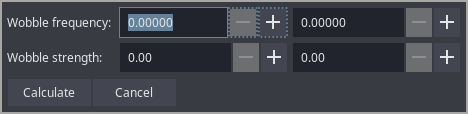
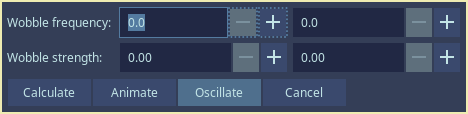
[README.md,Wobble-animate.png,Wobble-gui.png,Wobble-oscillate.png] Update info of wobble script

diff --git a/README.md b/README.md
@@ -42,21 +42,37 @@ https://user-images.githubusercontent.com/65547311/164889225-2d8a6ccf-7798-4810-
 
 **_Available in Dependency Control_**
 
-Wobble is a remake of a very old script that distorts the text with the parameters you choose. The old script however was very difficult to use. It neither recognized the text already present in the line nor the tags used nor did it output the result in a usable format. So I decided to remake it.
+Wobble is a remake of a very old script that distorts the text with the parameters you choose. The old script however was very difficult to use. It neither recognized the text already present in the line nor the tags used nor did it output the result in a usable format. So I decided to remake it and add other features.
 
 ![wobble](./assets/wobble-gui.png)
 
-When you open the script, you will be presented with the gui as shown above. Imagine that when you use this script, it distorts the text along a wave horizontally or vertically or both. The parameters control the nature of the wave thus controls how the text is distorted. Frequency is the number of waves (crest and trough) you want in the text. Use very small value for useful output. Strength is the number of pixels that the text will be distorted to. With trial and error, you can create many interesting distortions.
+When you open the script, you will be presented with the GUI as shown above. Imagine that when you use this script, it distorts the text along a wave horizontally or vertically or both. The parameters control the nature of the wave thus controls how the text is distorted. Frequency is the number of waves (crest and trough) you want in the text in percentage. You'll most likely use 20-40% for optimum results. Strength is the number of pixels that the text will be distorted to. With trial and error, you can create many interesting distortions.
 
-As you can see below, the top is the original font and everything below it is distorted using this script. I use it when the sign is distorted or I need a irregular font that I cannot find.
+As you can see below, the top is the original font and everything below it is distorted using this script. I use it when the sign is distorted or I need an irregular font that I cannot find.
 
 ![wobble2](./assets/wobble-example.png)
+
+![image](./assets/wobble-animate.png)
+
+If you want to animate the distortion, first split the line to frames. You can use something like [petzku's script](https://github.com/petzku/Aegisub-Scripts/blob/master/macros/petzku.SplitTimer.moon) to do so. You can control the speed of animation by controlling the number of frames each line has. The more frames per line, the slower the animation. After splitting the line to frames, you need to put the starting value and ending value. I recommend you figure this out beforehand by using main GUI. After you put the starting and ending value for all the required elements, click on `Animate` and the script will handle the rest.
+
+<details>
+  <summary>Click here to see example animations</summary>
+</details>
+
+![image](./assets/wobble-oscillate.png)
+
+Again, split the lines into frames first. Then, you need to put the middle value. After that you need to put the factor by which the middle value will change. If your middle value if x and factor is y, the minimum value is x - y while the maximum value is x + y. The values will oscillate from minimum value to maximum value. The steps box is the rate by how much the value changes per line.
+
+<details>
+  <summary>Click here to see example oscillation</summary>
+</details>
 
 ## svg2ass
 
 **_Available in Dependency Control_**
 
-The script svg2ass is a wrapper for a program [svg2ass](https://github.com/irrwahn/svg2ass) which allows you to select a svg file from Aegisub itself and convert it to shape, clip or iclip. It works in both windows as well as unix operating system. I generally create svg files using GIMP(can perform complex selections and convert those selections to svg in a matter of seconds) or Inkscape and use svg2ass to convert them to subtitle lines. If you cannot/ do not want to compile svg2ass, then there is also a [website](https://qgustavor.github.io/svg2ass-gui/) where you can upload the svg file to obtain the output.
+The script svg2ass is a wrapper for a program [svg2ass](https://github.com/irrwahn/svg2ass) which allows you to select a svg file from Aegisub itself and convert it to shape, clip or iclip. It works in both windows as well as unix operating system. I generally create svg files using GIMP(can perform complex selections and convert those selections to svg in a matter of seconds) or Inkscape and use svg2ass to convert them to subtitle lines. If you cannot/ do not want to compile svg2ass, then there is also a [website](https://qgustavor.github.io/svg2ass-gui/) where you can upload the svg file to obtain the output.ku
 
 The first thing you should do is to set the config and provide the path where you have the svg2ass executable. At the same time, you can also provide custom tags you want to append to final result and the custom svg2ass parameters if you prefer.
 
@@ -202,7 +218,7 @@ There is also a config where you can configure a lot of things about the script 
 
 **_Not Available in Dependency Control_**
 
-https://user-images.githubusercontent.com/65547311/177036211-89788b80-9b97-472d-9a17-c123189910c5.mp4
+https://user-images.githubusercontent.com/65547311/177035842-e1a4b930-07b8-4ea0-82a2-16a3de8552e6.mp4
 
 This script is designed to write or modify karaoke template lines for [The0x539's KaraTemplater](https://github.com/The0x539/Aegisub-Scripts/blob/trunk/src/0x.KaraTemplater.moon)
 
